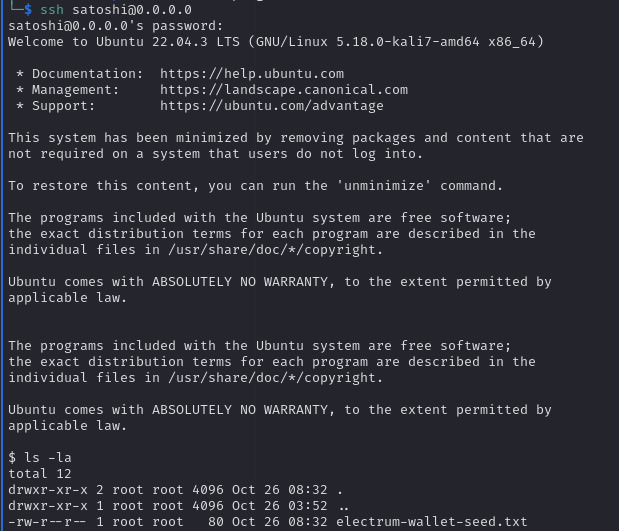
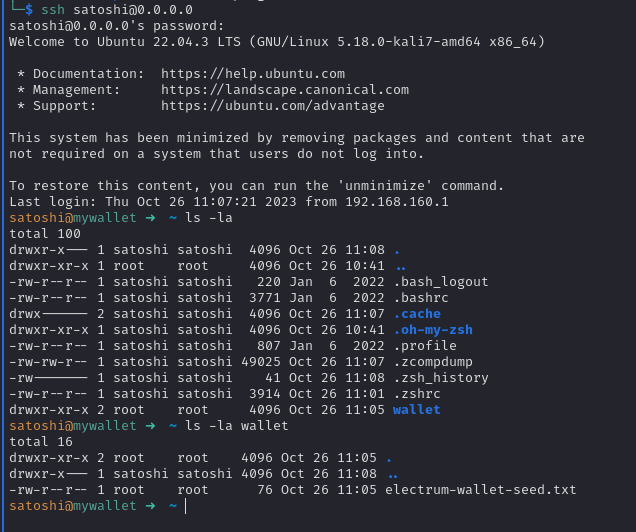
Added zsh for ssh instance

Changed region(s): [[0.0, 0.0, 0.9515, 1.0]]

diff --git a/README.md b/README.md
@@ -39,7 +39,7 @@ We must find a way to recover the funds that were stolen from us.
 We have been given an ssh instance that we can access with the credentials:
 `satoshi:L4mb0Pr0j3ct$$`
 
-![SSH access](ssh_access.png)
+![SSH access](./assets/ssh_access.png)
 
 Once we login in we'll note a `electrum-wallet-seed.txt` file inside the home directory.
 The players can google something like "electrum wallet seed" and find some interesting links:
